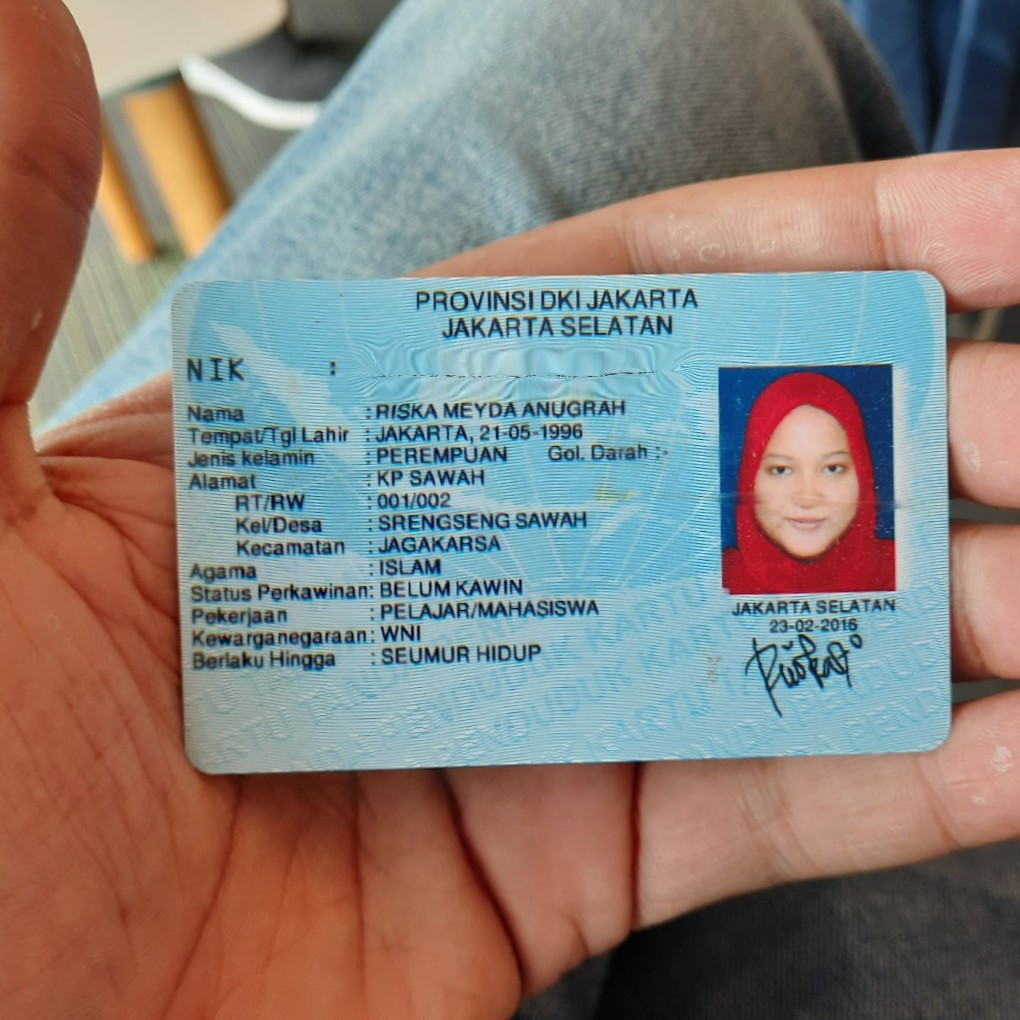
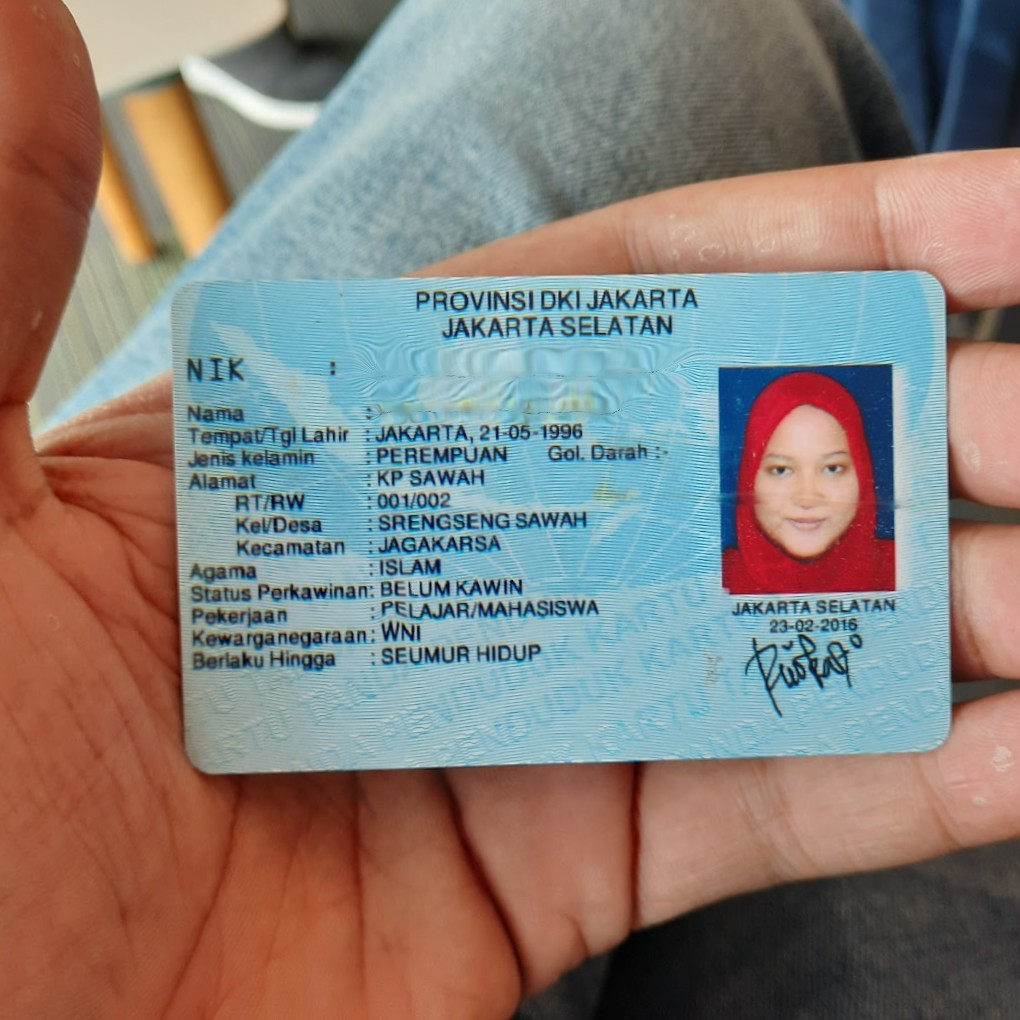
support for random name

Changed region(s): [[0.3647, 0.3647, 0.6078, 0.4255], [0.3647, 0.5775, 0.4255, 0.6382]]

diff --git a/index.html b/index.html
@@ -44,9 +44,11 @@
         }
 
         input {
+            position: relative;
             background: transparent;
             border: none;
-            font-size: 17px;
+            font-family: Arial;
+            font-size: 13px;
             font-weight: normal;
             text-transform: uppercase;
             transform: skew(0deg, -1.3deg);
@@ -56,11 +58,15 @@
 
         .nik {
             font-family: ocr;
-            position: relative;
             left: 205px;
             top: 202px;
             font-size: 19px;
-            font-weight: normal;
+        }
+
+        .name {
+            left: -24px;
+            top: 228px;
+            text-shadow: 0 0 1px rgba(0, 0, 0, 1);
         }
 
         /* .box .nik {
@@ -144,10 +150,8 @@
                 </div>
             </div> -->
             <input type="text" class="nik" value="">
-            <!-- </br>
             <input type="text" class="name" value="">
-            </br>
-
+<!-- 
             <input type="text" class="region">
             <input type="text" class="tem">
             </br>
@@ -260,7 +264,7 @@
 
         // document.getElementsByClassName("profileimg")[0].src = "./" + singleUserSource.source
         document.getElementsByClassName("nik")[0].value = generateNIK(singleUserSource.gender)//"3174096105960007"
-        // document.getElementsByClassName("name")[0].value = singleUserData.name
+        document.getElementsByClassName("name")[0].value = singleUserData.name
         // document.getElementsByClassName("region")[0].value = "JAKARTA,"
         // document.getElementsByClassName("tem")[0].value = issueDate
         // document.getElementsByClassName("jenis")[0].value = singleUserSource.gender == "male" ? "laki-laki" : "perempuan"
